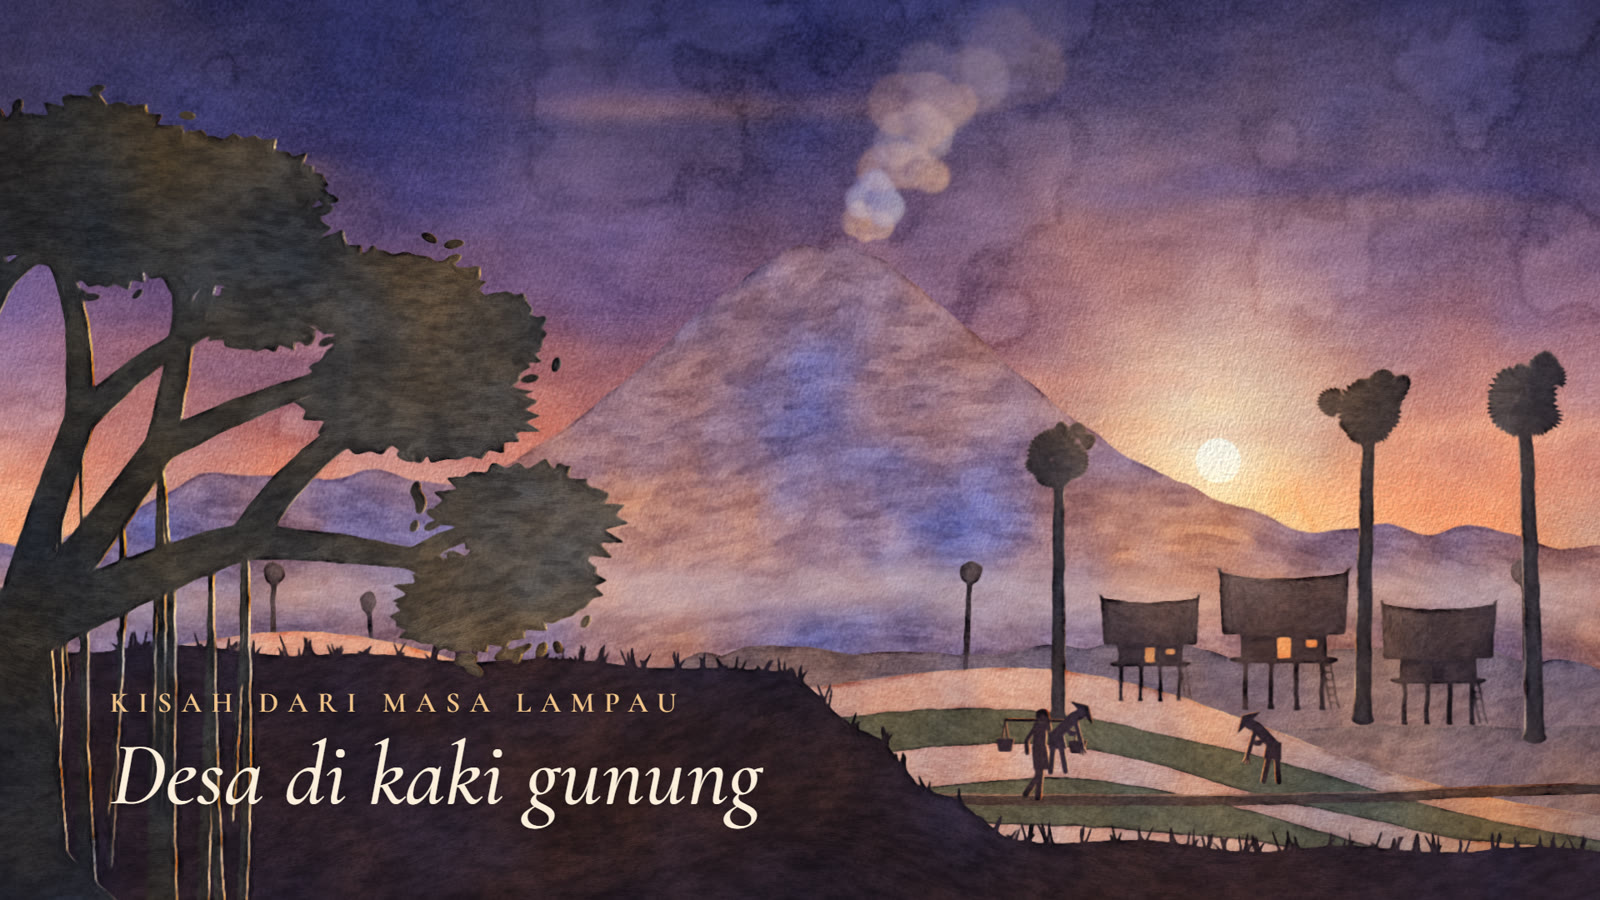
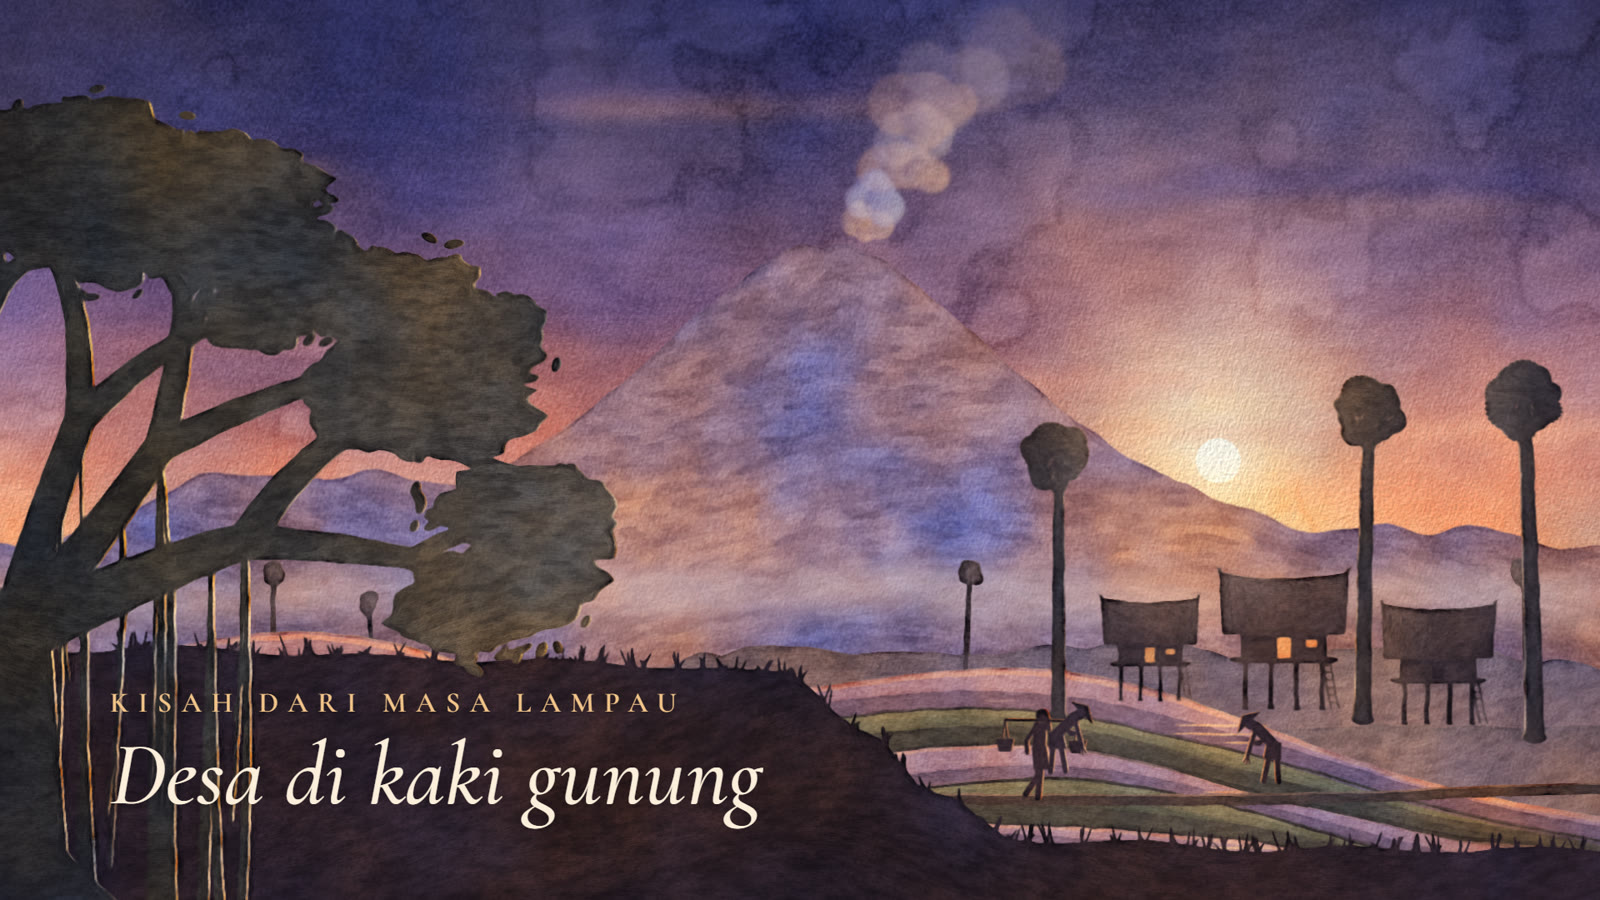
galeri diambil ulang dari starter terbaru; bench akhir semua gaya; perbaiki kalimat rencana

diff --git a/CHANGELOG.md b/CHANGELOG.md
@@ -468,6 +468,7 @@ Versi belum dinaikkan; rilisnya langkah terpisah.
   - **Diukur ulang pada babak** (PNG, FPS=10): 560/600 frame identik, 1,59× lebih cepat; sisanya t 30–34, maks. 3 level di 6 frame terburuk, ≤ 0,2 % piksel (`bukti.txt` §8). Halaman lain belum diukur ulang.
 - **Rig tokoh lebih hemat**: blur rim dan pendar diklip ke kotak tokoh, sebelumnya memproses selebar kanvas. Tableau 6 tokoh detail 2 turun dari ±371 ke ±288 ms/frame di HD 4000 (batas 350; mesin senggang, belum diukur saat render berjalan), biaya per tokoh ±27 → ±14 ms, babak ±231 → ±222 ms. Rupa tetap: 0 % piksel beda > 16 level, maks. 7. Bukti: `evals/bukti/2026-11-04-tokoh-hemat/`. Angka 437 ms di catatan bench di atas berasal dari sebelum perbaikan ini.
 - **Segmen motion blur mata elang**: terukur 1294 ms/frame (maks. 1646), di luar segmen itu 299 ms. Pengecualian yang disengaja terhadap batas 350 ms: 27 dari 345 frame, tambahan ±30 dtk per shot saat render, gambar tidak terdampak.
+- **Bench akhir sesudah semua perbaikan rupa** (4 Nov, HD 4000, 3 putaran, median ms/frame, 20 frame mulai t = 2, semua deterministik): panggung 176, lukis 193, pustaka 212, relief 220, wayang bayang 228, babak 230, sinematik 234, diorama 237, peta 275, elang 295, wayang dalang 310, katalog tokoh 319. Menggantikan angka bench sebelumnya. `test-starters` 18 dari 18 lolos. Still `docs/gallery/14`–`20` diambil ulang dari starter terbaru.
 - **Rupa budaya ditingkatkan** sesudah tinjauan pemilik (bukti `evals/bukti/2026-11-04-rupa-budaya/`).
   - **Wayang**: raksasa digambar ulang dari ikonografi bersumber (plelengan, pelokan, gusen, gembel); sisi dalang mendapat lapis sungging dipanggang, kelat bahu, gelang, dan uncal; simpingan diurutkan menurut sumber. Bench bayang 209, dalang 298 ms/frame (terburuk 314).
   - **Diorama**: pola bata, paras, ijuk, dan alang di shader toon; padmasana tepas–batur–sari dari sumber jurnal, tanpa arca; legenda mengikuti kata sumber dan menandai "Denah generik, bukan pura tertentu". Bench 233 ms/frame.

diff --git a/docs/rencana-1.4.0.md b/docs/rencana-1.4.0.md
@@ -117,7 +117,7 @@ Rilis 1.4.0 (L) mencakup:
 - Setiap gaya punya starter atau kulit, dokumen, dan lembar kontak.
 - Tindak lanjut relief candi sesudah masuk `main`:
   - bench di mesin senggang: `bench-frame.mjs assets/starter-relief.html "clean=1" 20`, ≥ 3 run bergantian; ukur juga setup;
-  - vonis pemilik, termasuk legenda "GAYA BOROBUDUR · ILUSTRASI" di atas panel rekaan (sudah ditandai ilustrasi atau tidak).
+  - vonis pemilik, termasuk legenda "GAYA BOROBUDUR · ILUSTRASI" di atas panel rekaan (sudah ditandai ilustrasi).
 - Tindak lanjut painterly sesudah masuk `main`: bench di mesin senggang (`bench-frame.mjs assets/starter-lukis.html "clean=1" 20`);
   vonis pemilik. Agen pembuatnya macet sesudah bukti di-commit, jadi gerbang dan uji penggabungan dijalankan controller.
 - Tindak lanjut peta relief 3D sesudah masuk `main`: bench (`bench-frame.mjs assets/starter-peta-relief.html "clean=1" 20`); sungai
